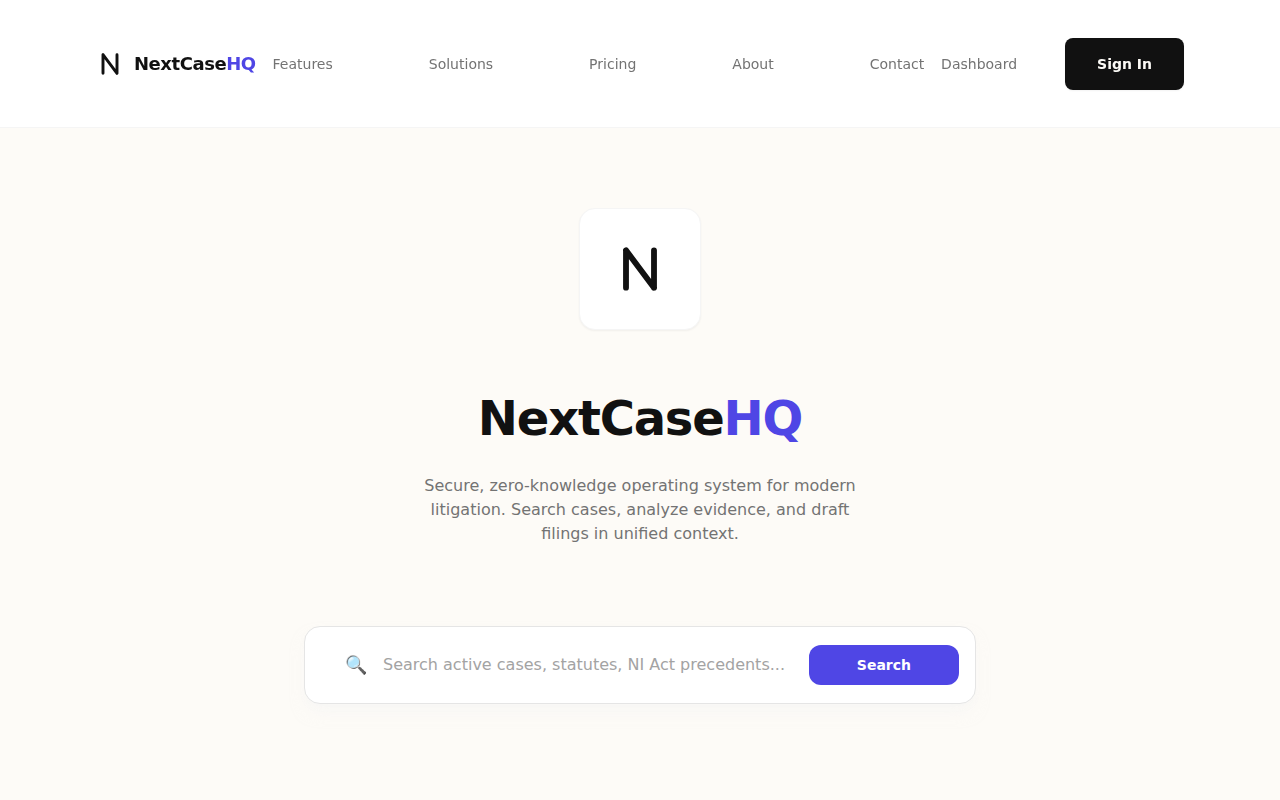
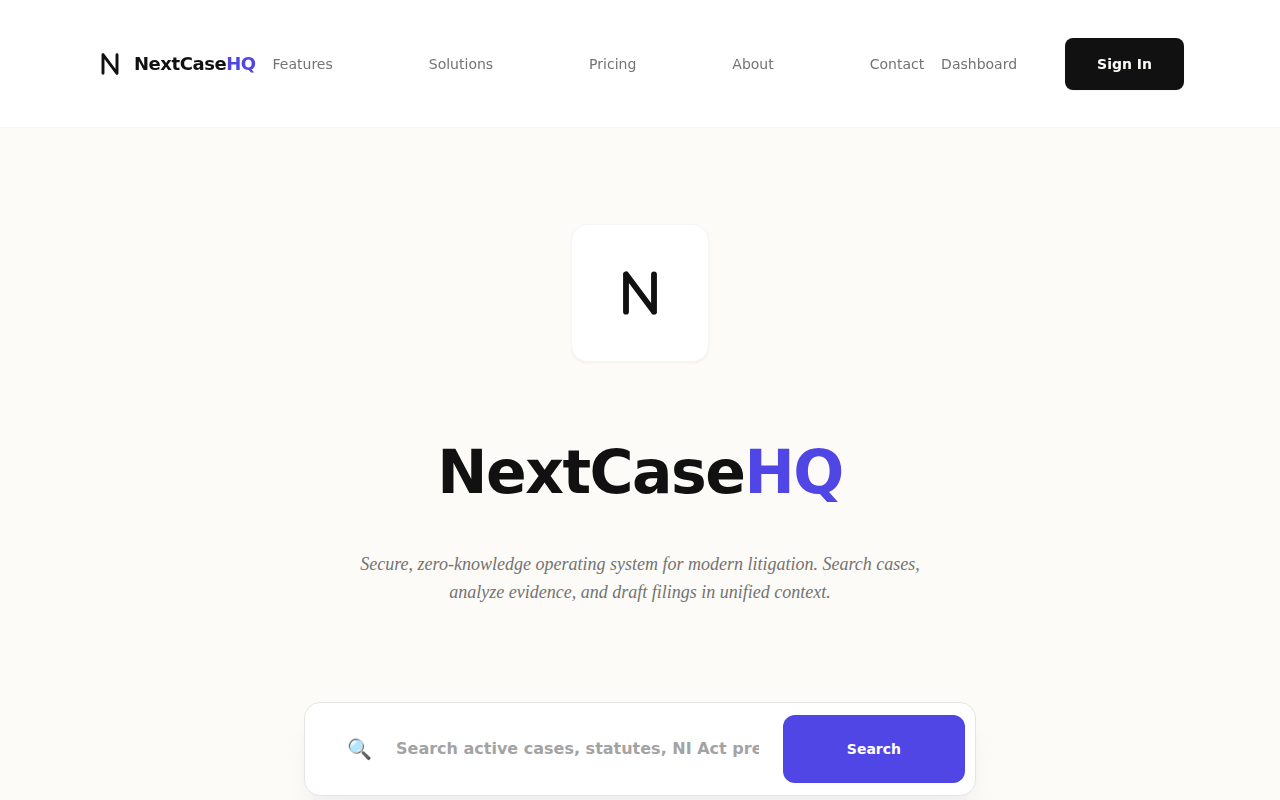
feat: execute product polish and deliver final Litigation Operating System upgrades

diff --git a/apps/web/src/app/page.tsx b/apps/web/src/app/page.tsx
@@ -19,12 +19,12 @@ export default function Page() {
     <div className="min-h-screen bg-[#FDFBF7] text-[#111111] flex flex-col font-sans selection:bg-indigo-600 selection:text-white">
 
       {/* Central Search Hero Section */}
-      <main className="flex-1 flex flex-col justify-center items-center px-6 py-20 max-w-4xl mx-auto w-full text-center">
+      <main className="flex-1 flex flex-col justify-center items-center px-6 py-24 max-w-4xl mx-auto w-full text-center">
 
-        {/* Law-inspired "N" logo container */}
-        <div className="mb-8 p-4 bg-white border border-neutral-100 rounded-2xl shadow-sm inline-flex items-center justify-center">
+        {/* Law-inspired "N" logo container with micro-interactions */}
+        <div className="mb-10 p-5 bg-white border border-neutral-100 rounded-2xl shadow-sm inline-flex items-center justify-center hover:scale-[1.03] hover:border-indigo-100 hover:shadow-md transition-all duration-300 ease-out cursor-pointer group">
           <svg
-            className="w-14 h-14 text-[#111111]"
+            className="w-14 h-14 text-[#111111] group-hover:text-indigo-600 transition-colors duration-300"
             viewBox="0 0 24 24"
             fill="none"
             stroke="currentColor"
@@ -36,39 +36,39 @@ export default function Page() {
         </div>
 
         {/* Minimalist Heading */}
-        <h1 className="text-3xl md:text-5xl font-black tracking-tight text-[#111111] mb-4">
+        <h1 className="text-4xl md:text-6xl font-black tracking-tight text-[#111111] mb-6">
           NextCase<span className="text-indigo-600">HQ</span>
         </h1>
 
-        <p className="text-sm md:text-base text-neutral-500 max-w-md mx-auto mb-10 font-medium">
+        <p className="text-sm md:text-lg text-neutral-500 max-w-xl mx-auto mb-12 font-medium font-serif italic leading-relaxed">
           Secure, zero-knowledge operating system for modern litigation. Search cases, analyze evidence, and draft filings in unified context.
         </p>
 
-        {/* Central Intelligent Search Bar */}
-        <div className="w-full max-w-2xl bg-white border border-neutral-200 rounded-2xl p-2 shadow-lg shadow-neutral-100/50 flex items-center gap-2 mb-12 focus-within:border-indigo-500 focus-within:ring-2 focus-within:ring-indigo-600/10 transition-all">
-          <span className="pl-3 text-neutral-400 text-lg">🔍</span>
+        {/* Central Intelligent Search Bar with Premium Shadows */}
+        <div className="w-full max-w-2xl bg-white border border-neutral-200 rounded-2xl p-2.5 shadow-xl shadow-neutral-200/40 flex items-center gap-3 mb-14 focus-within:border-indigo-500 focus-within:ring-4 focus-within:ring-indigo-600/5 transition-all duration-300">
+          <span className="pl-4 text-neutral-400 text-xl select-none">🔍</span>
           <input
             type="text"
             placeholder="Search active cases, statutes, NI Act precedents..."
-            className="flex-1 bg-transparent border-none outline-none text-[#111111] text-sm md:text-base font-medium placeholder-neutral-400 py-2.5"
+            className="flex-1 bg-transparent border-none outline-none text-[#111111] text-sm md:text-base font-semibold placeholder-neutral-400 py-3"
             disabled
           />
           <Link
             href="/login"
-            className="bg-indigo-600 hover:bg-indigo-700 text-white font-semibold text-xs md:text-sm px-6 py-2.5 rounded-xl transition-all"
+            className="bg-indigo-600 hover:bg-indigo-700 hover:shadow-lg hover:shadow-indigo-600/15 text-white font-bold text-xs md:text-sm px-8 py-3 rounded-xl transition-all duration-200 active:scale-[0.98]"
           >
             Search
           </Link>
         </div>
 
-        {/* Quick links to login */}
+        {/* Quick links to login with subtle underlines */}
         <div className="flex flex-wrap justify-center gap-x-6 gap-y-3 text-xs md:text-sm font-semibold text-neutral-400">
-          <span className="text-neutral-500 font-bold uppercase tracking-wider">Quick Actions:</span>
-          <Link href="/login" className="text-neutral-600 hover:text-indigo-600 transition-colors">Access Active Chamber</Link>
-          <span className="text-neutral-200">•</span>
-          <Link href="/login" className="text-neutral-600 hover:text-indigo-600 transition-colors">Ingest New File</Link>
-          <span className="text-neutral-200">•</span>
-          <Link href="/login" className="text-neutral-600 hover:text-indigo-600 transition-colors">Audit Immutable Ledger</Link>
+          <span className="text-neutral-500 font-extrabold uppercase tracking-widest text-[10px]">Quick Actions:</span>
+          <Link href="/login" className="text-neutral-600 hover:text-indigo-600 hover:underline transition-all duration-200">Access Active Chamber</Link>
+          <span className="text-neutral-200 select-none">•</span>
+          <Link href="/login" className="text-neutral-600 hover:text-indigo-600 hover:underline transition-all duration-200">Ingest New File</Link>
+          <span className="text-neutral-200 select-none">•</span>
+          <Link href="/login" className="text-neutral-600 hover:text-indigo-600 hover:underline transition-all duration-200">Audit Immutable Ledger</Link>
         </div>
 
       </main>
